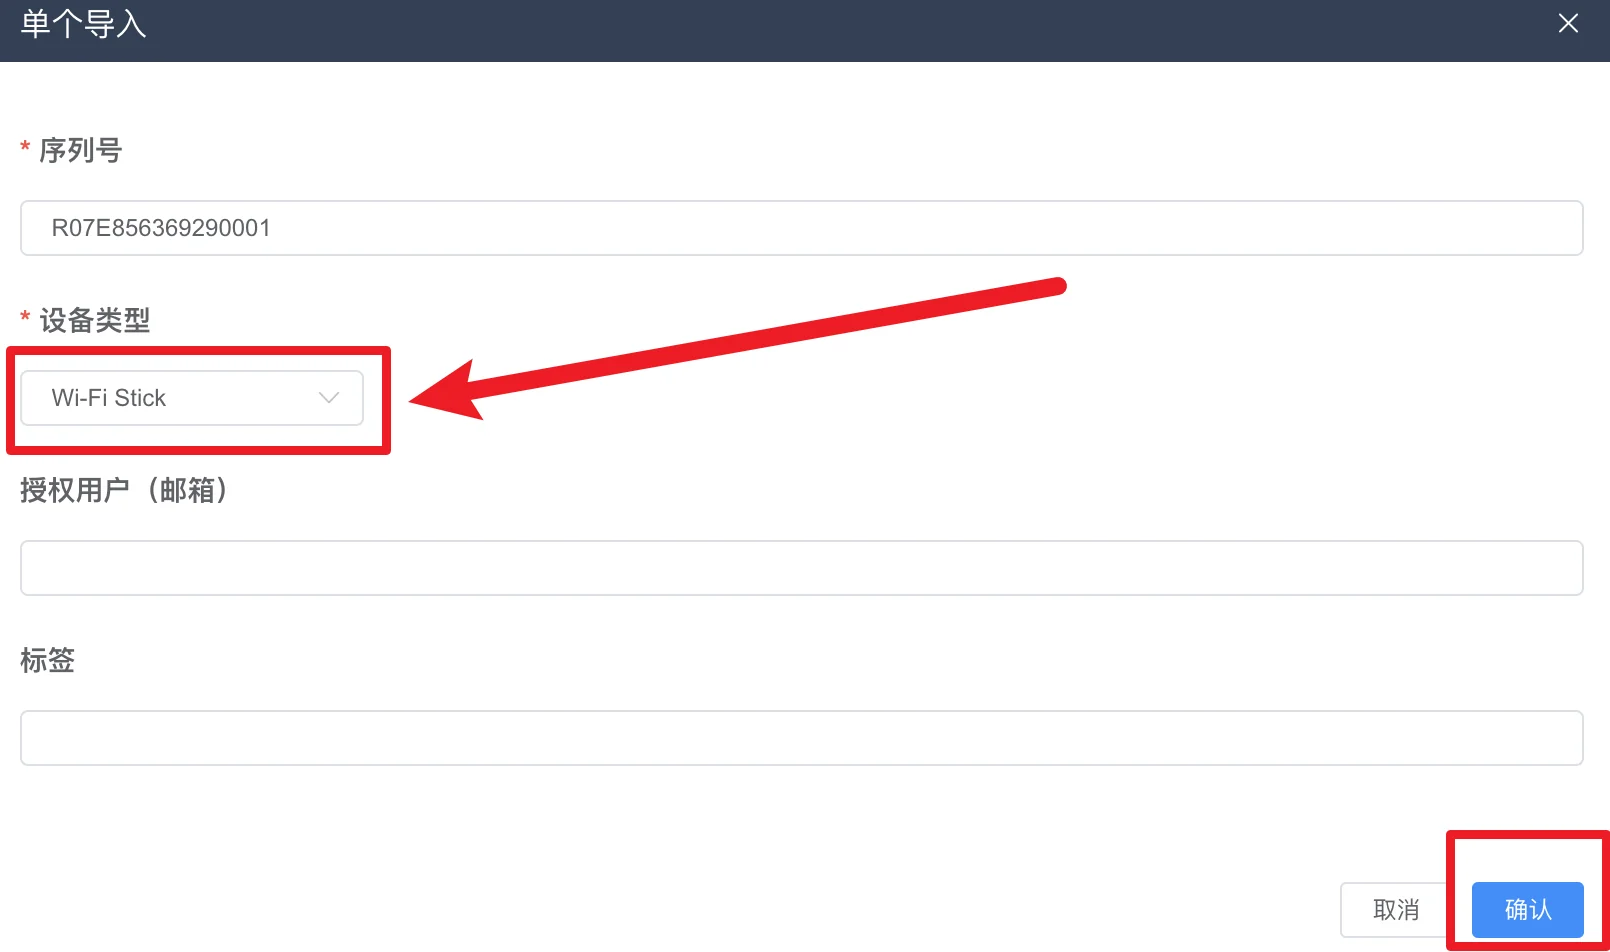
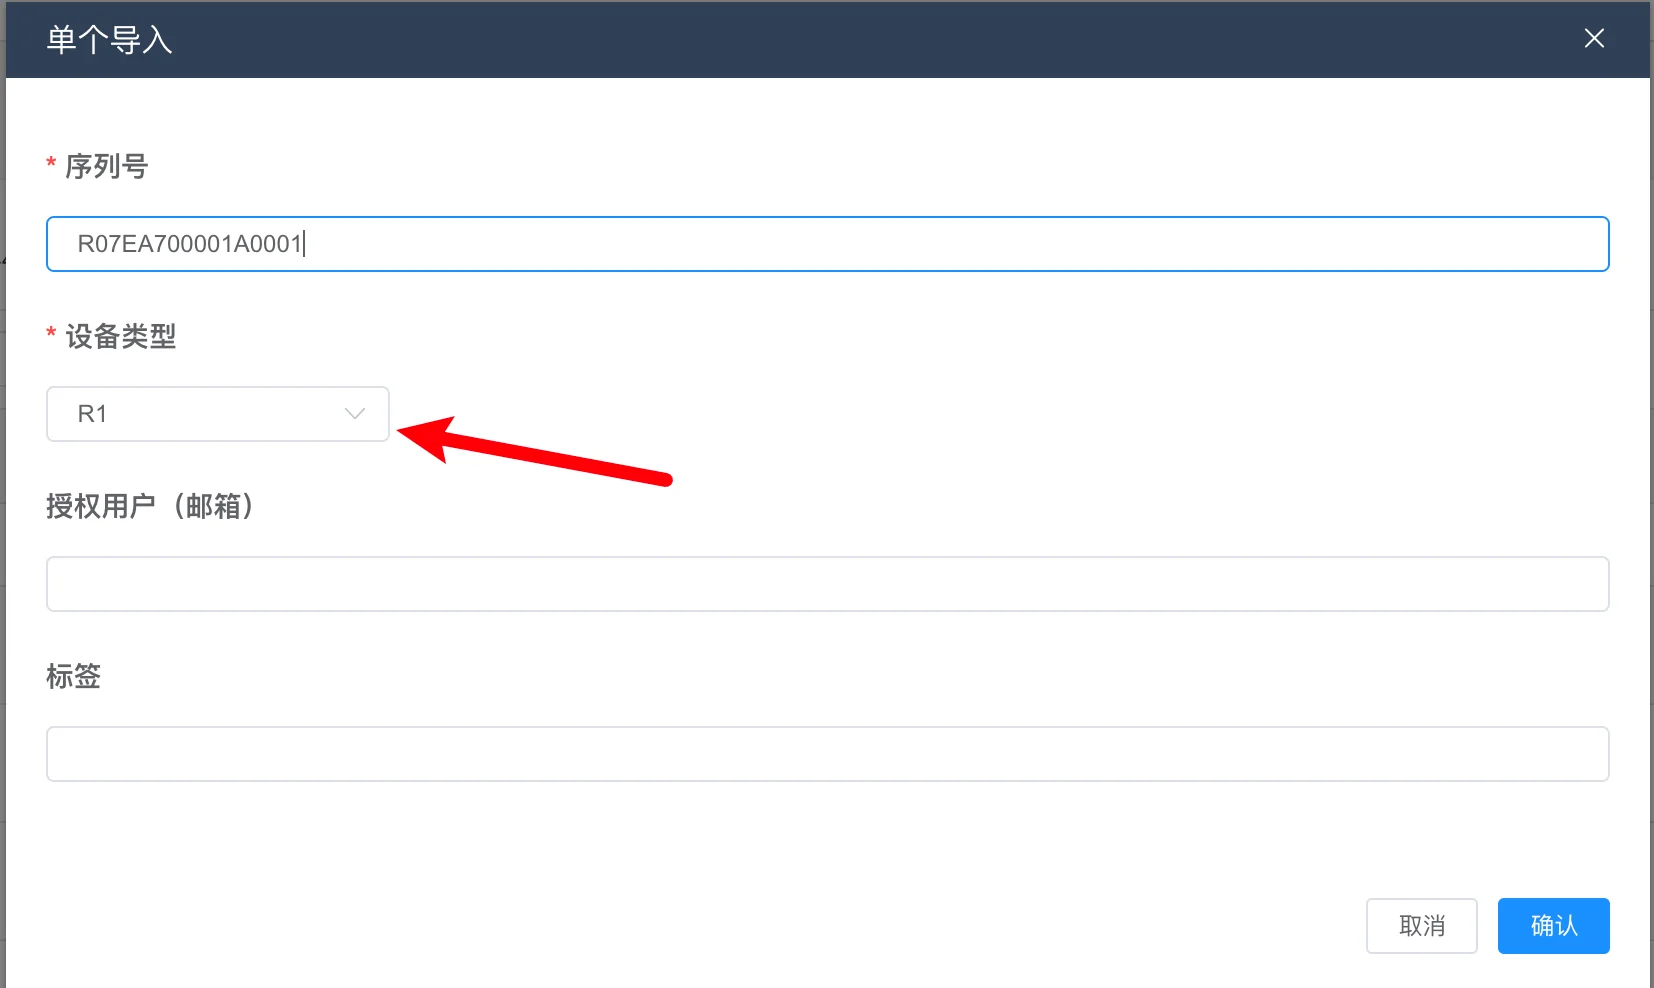
文档: 采集器导入更新设备类型说明(R1/X1,按序列号开头字母选择)并替换单个导入截图

Changed region(s): [[0.0, 0.0, 1.0, 1.0]]

diff --git a/docs/zh/docs/web/device/collector/index.html b/docs/zh/docs/web/device/collector/index.html
@@ -22,6 +22,6 @@ ZH</button><ul class="dropdown-menu text-end"><li><a class=dropdown-item href=/e
 </a><meta itemprop=position content='3'></li><li class="breadcrumb-item text-capitalize active" itemprop=itemListElement itemscope itemtype=https://schema.org/ListItem><span itemprop=name>采集器</span>
 <meta itemprop=position content='4'></li></ul></nav></div><div class="row flex-xl-nowrap"><div class="docs-toc col-xl-3 d-xl-block"><toc><div class="fw-bold text-uppercase mb-2"></div><nav id=TableOfContents><ul><li><a href=#1设备列表>1.设备列表</a></li><li><a href=#2采集器入库>2.采集器入库</a><ul><li><a href=#21单个导入>2.1单个导入</a></li><li><a href=#22批量导入>2.2批量导入</a></li></ul></li><li><a href=#3批量设置访问授权>3.批量设置访问授权</a></li><li><a href=#4批量设置标签>4.批量设置标签</a></li><li><a href=#5批量删除>5.批量删除</a></li><li><a href=#6单个访问授权设置标签删除>6.单个访问授权/设置标签/删除</a></li><li><a href=#7固件版本号搜索>7.固件版本号搜索</a></li><li><a href=#8采集器详情页>8.采集器详情页</a><ul><li><a href=#81报警>8.1报警</a></li><li><a href=#82解绑>8.2解绑</a></li><li><a href=#83其他功能>8.3其他功能</a></li><li><a href=#831变更>8.3.1变更</a></li><li><a href=#832新建工单>8.3.2新建工单</a></li><li><a href=#833别名编辑>8.3.3别名编辑</a></li><li><a href=#834固件升级>8.3.4固件升级</a></li><li><a href=#835操作日志>8.3.5操作日志</a></li></ul></li></ul></nav></toc></div><div class="docs-toc-mobile d-print-none d-xl-none"><button id=toc-dropdown-btn class="btn-secondary dropdown-toggle" type=button data-bs-toggle=dropdown data-bs-offset=0,0 aria-expanded=false>
 Table of Contents</button><nav id=toc-mobile><ul class=dropdown-menu><li><a href=#1设备列表>1.设备列表</a></li><li><a href=#2采集器入库>2.采集器入库</a><ul><li><a href=#21单个导入>2.1单个导入</a></li><li><a href=#22批量导入>2.2批量导入</a></li></ul></li><li><a href=#3批量设置访问授权>3.批量设置访问授权</a></li><li><a href=#4批量设置标签>4.批量设置标签</a></li><li><a href=#5批量删除>5.批量删除</a></li><li><a href=#6单个访问授权设置标签删除>6.单个访问授权/设置标签/删除</a></li><li><a href=#7固件版本号搜索>7.固件版本号搜索</a></li><li><a href=#8采集器详情页>8.采集器详情页</a><ul><li><a href=#81报警>8.1报警</a></li><li><a href=#82解绑>8.2解绑</a></li><li><a href=#83其他功能>8.3其他功能</a></li><li><a href=#831变更>8.3.1变更</a></li><li><a href=#832新建工单>8.3.2新建工单</a></li><li><a href=#833别名编辑>8.3.3别名编辑</a></li><li><a href=#834固件升级>8.3.4固件升级</a></li><li><a href=#835操作日志>8.3.5操作日志</a></li></ul></li></ul></nav></div><div class="docs-content col-12 col-xl-9 mt-0"><div class="mb-0 d-flex"><h1 class="content-title mb-0">采集器</h1></div><div id=content class=main-content><div data-prismjs-copy data-prismjs-copy-success data-prismjs-copy-error><h1 id=功能概述>功能概述 <a href=#%e5%8a%9f%e8%83%bd%e6%a6%82%e8%bf%b0 class=anchor aria-hidden=true><i class="material-icons align-middle">link</i></a></h1><p>采集器是平台数据接入的核心设备：现场的逆变器、电池、电表、优化器等<strong>子设备</strong>都挂在采集器下，由采集器统一采集并上报数据到平台。所以采集器需要先入库、再绑定到电站，它下面子设备的数据才能正常展示。</p><h2 id=1设备列表>1.设备列表 <a href=#1%e8%ae%be%e5%a4%87%e5%88%97%e8%a1%a8 class=anchor aria-hidden=true><i class="material-icons align-middle">link</i></a></h2><img src=/../../zh/photo/docs/device/collector/device-list.webp><p>设备列表可以查看在线、故障、离线和全部的设备信息。上方的状态标签会同时显示各状态的设备数量，点击标签可以只看该状态的设备：</p><ul><li><strong>在线</strong>：设备正常上报数据</li><li><strong>故障</strong>：设备存在未恢复的告警</li><li><strong>离线</strong>：设备长时间没有上报数据</li></ul><img src=/../../zh/photo/docs/device/collector/collector-uninstall.webp>
-<img src=/../../zh/photo/docs/device/collector/collector-install.webp><p>对于采集器设备来说，有两种额外的状态</p><ul><li><strong>已安装</strong>：采集器入库后进行了绑定电站</li><li><strong>未安装</strong>：采集器入库后未绑定电站</li></ul><p>列表中还会显示序列号、固件版本号、信号强度、所属电站、别名、时区、数据更新时间等，点击序列号可以进入采集器详情页。</p><p>信号强度可以用来判断现场的网络质量，参考如下数值：</p><ul><li>80% 以上：网络良好</li><li>50%~79%：网络正常</li><li>31%~49%：网络不佳，勉强使用</li><li>11%~30%：网络很差，注意优化</li><li>10% 以下：断网状态，需要重新配网</li></ul><h2 id=2采集器入库>2.采集器入库 <a href=#2%e9%87%87%e9%9b%86%e5%99%a8%e5%85%a5%e5%ba%93 class=anchor aria-hidden=true><i class="material-icons align-middle">link</i></a></h2><img src=/../../zh/photo/docs/device/collector/import-one.webp><p>采集器入库是把采集器录入平台，有两种方式</p><ul><li>单个导入：单个采集器导入，一次导入一个采集器</li><li>批量导入：通过将采集器SN写入模版文件，一次性导入多个采集器</li></ul><h3 id=21单个导入>2.1单个导入 <a href=#21%e5%8d%95%e4%b8%aa%e5%af%bc%e5%85%a5 class=anchor aria-hidden=true><i class="material-icons align-middle">link</i></a></h3><img src=/../../zh/photo/docs/device/collector/import-one1.webp width=600 height=450><p>一般采集器类型选择WI-FI Stick。</p><ul><li><strong>授权用户</strong>：填写后该用户拥有设备的查看管理权限；不填写则默认当前登录用户</li><li><strong>标签</strong>：给采集器添加备注信息，便于日常归类</li></ul><h3 id=22批量导入>2.2批量导入 <a href=#22%e6%89%b9%e9%87%8f%e5%af%bc%e5%85%a5 class=anchor aria-hidden=true><i class="material-icons align-middle">link</i></a></h3><img src=/../../zh/photo/docs/device/collector/import-more1.webp width=600 height=450><p>下载采集器导入模版</p><img src=/../../zh/photo/docs/device/collector/import-more.webp><p>可以填写多个采集器SN，Owner为授权用户，Keywords为标签</p><img src=/../../zh/photo/docs/device/collector/import-more2.webp width=700 height=550><p>类型选择WI-FI Stick，上传并读取校验，即可添加成功，若上传错误的SN或者已入库的SN则会列出报错信息</p><h2 id=3批量设置访问授权>3.批量设置访问授权 <a href=#3%e6%89%b9%e9%87%8f%e8%ae%be%e7%bd%ae%e8%ae%bf%e9%97%ae%e6%8e%88%e6%9d%83 class=anchor aria-hidden=true><i class="material-icons align-middle">link</i></a></h2><img src=/../../zh/photo/docs/device/collector/access.webp><p>可以勾选单个或多个设备</p><img src=/../../zh/photo/docs/device/collector/access1.webp width=700 height=550><p>输入平台账号的邮箱，如果存在则会弹出对应的平台账号</p><img src=/../../zh/photo/docs/device/collector/access2.webp width=700 height=550><p>选择平台账号，点击确定设置成功</p><p>访问授权是把设备的查看管理权限授予其他账号，被授权的账号在自己的设备列表里可以看到并管理这些设备；设备的授权用户和管理用户可以在列表操作列中对设备做访问授权、打标签和删除。</p><h2 id=4批量设置标签>4.批量设置标签 <a href=#4%e6%89%b9%e9%87%8f%e8%ae%be%e7%bd%ae%e6%a0%87%e7%ad%be class=anchor aria-hidden=true><i class="material-icons align-middle">link</i></a></h2><img src=/../../zh/photo/docs/device/collector/tag.webp>
+<img src=/../../zh/photo/docs/device/collector/collector-install.webp><p>对于采集器设备来说，有两种额外的状态</p><ul><li><strong>已安装</strong>：采集器入库后进行了绑定电站</li><li><strong>未安装</strong>：采集器入库后未绑定电站</li></ul><p>列表中还会显示序列号、固件版本号、信号强度、所属电站、别名、时区、数据更新时间等，点击序列号可以进入采集器详情页。</p><p>信号强度可以用来判断现场的网络质量，参考如下数值：</p><ul><li>80% 以上：网络良好</li><li>50%~79%：网络正常</li><li>31%~49%：网络不佳，勉强使用</li><li>11%~30%：网络很差，注意优化</li><li>10% 以下：断网状态，需要重新配网</li></ul><h2 id=2采集器入库>2.采集器入库 <a href=#2%e9%87%87%e9%9b%86%e5%99%a8%e5%85%a5%e5%ba%93 class=anchor aria-hidden=true><i class="material-icons align-middle">link</i></a></h2><img src=/../../zh/photo/docs/device/collector/import-one.webp><p>采集器入库是把采集器录入平台，有两种方式</p><ul><li>单个导入：单个采集器导入，一次导入一个采集器</li><li>批量导入：通过将采集器SN写入模版文件，一次性导入多个采集器</li></ul><h3 id=21单个导入>2.1单个导入 <a href=#21%e5%8d%95%e4%b8%aa%e5%af%bc%e5%85%a5 class=anchor aria-hidden=true><i class="material-icons align-middle">link</i></a></h3><img src=/../../zh/photo/docs/device/collector/import-one1.webp width=700 height=418><p><strong>设备类型</strong>根据采集器序列号的<strong>开头字母</strong>选择：</p><table><thead><tr><th>序列号开头字母</th><th>设备类型</th></tr></thead><tbody><tr><td>R</td><td><strong>R1</strong></td></tr><tr><td>X</td><td><strong>X1</strong></td></tr></tbody></table><p>目前采集器主要就是 <strong>R1</strong> 和 <strong>X1</strong> 两种类型，导入前请先确认设备上的序列号，选择对应类型。</p><ul><li><strong>授权用户</strong>：填写后该用户拥有设备的查看管理权限；不填写则默认当前登录用户</li><li><strong>标签</strong>：给采集器添加备注信息，便于日常归类</li></ul><h3 id=22批量导入>2.2批量导入 <a href=#22%e6%89%b9%e9%87%8f%e5%af%bc%e5%85%a5 class=anchor aria-hidden=true><i class="material-icons align-middle">link</i></a></h3><img src=/../../zh/photo/docs/device/collector/import-more1.webp width=600 height=450><p>下载采集器导入模版</p><img src=/../../zh/photo/docs/device/collector/import-more.webp><p>可以填写多个采集器SN，Owner为授权用户，Keywords为标签</p><img src=/../../zh/photo/docs/device/collector/import-more2.webp width=700 height=550><p>类型同样按序列号开头字母选择（<strong>R 选 R1、X 选 X1</strong>），上传并读取校验，即可添加成功，若上传错误的SN或者已入库的SN则会列出报错信息</p><h2 id=3批量设置访问授权>3.批量设置访问授权 <a href=#3%e6%89%b9%e9%87%8f%e8%ae%be%e7%bd%ae%e8%ae%bf%e9%97%ae%e6%8e%88%e6%9d%83 class=anchor aria-hidden=true><i class="material-icons align-middle">link</i></a></h2><img src=/../../zh/photo/docs/device/collector/access.webp><p>可以勾选单个或多个设备</p><img src=/../../zh/photo/docs/device/collector/access1.webp width=700 height=550><p>输入平台账号的邮箱，如果存在则会弹出对应的平台账号</p><img src=/../../zh/photo/docs/device/collector/access2.webp width=700 height=550><p>选择平台账号，点击确定设置成功</p><p>访问授权是把设备的查看管理权限授予其他账号，被授权的账号在自己的设备列表里可以看到并管理这些设备；设备的授权用户和管理用户可以在列表操作列中对设备做访问授权、打标签和删除。</p><h2 id=4批量设置标签>4.批量设置标签 <a href=#4%e6%89%b9%e9%87%8f%e8%ae%be%e7%bd%ae%e6%a0%87%e7%ad%be class=anchor aria-hidden=true><i class="material-icons align-middle">link</i></a></h2><img src=/../../zh/photo/docs/device/collector/tag.webp>
 <img src=/../../zh/photo/docs/device/collector/tag2.webp><p>给多个采集器统一打标签，标签用于给设备添加备注信息（例如安装区域、用途），便于日常归类和查找。</p><h2 id=5批量删除>5.批量删除 <a href=#5%e6%89%b9%e9%87%8f%e5%88%a0%e9%99%a4 class=anchor aria-hidden=true><i class="material-icons align-middle">link</i></a></h2><img src=/../../zh/photo/docs/device/collector/tag.webp><p>勾选多个采集器后可以批量删除。<strong>已安装（已绑定电站）的采集器不能直接删除</strong>，需要先在详情页解绑；删除后设备及其数据将不再展示，请谨慎操作。</p><h2 id=6单个访问授权设置标签删除>6.单个访问授权/设置标签/删除 <a href=#6%e5%8d%95%e4%b8%aa%e8%ae%bf%e9%97%ae%e6%8e%88%e6%9d%83%e8%ae%be%e7%bd%ae%e6%a0%87%e7%ad%be%e5%88%a0%e9%99%a4 class=anchor aria-hidden=true><i class="material-icons align-middle">link</i></a></h2><img src=/../../zh/photo/docs/device/collector/single.webp><p>列表右侧操作列有三个图标按钮，依次是「访问授权」「标签」「删除」，只有设备的授权用户和管理用户可以看到并操作。</p><h2 id=7固件版本号搜索>7.固件版本号搜索 <a href=#7%e5%9b%ba%e4%bb%b6%e7%89%88%e6%9c%ac%e5%8f%b7%e6%90%9c%e7%b4%a2 class=anchor aria-hidden=true><i class="material-icons align-middle">link</i></a></h2><img src=/../../zh/photo/docs/device/collector/search.webp><p>按固件版本号筛选设备，便于确认哪些设备需要做固件升级。</p><h2 id=8采集器详情页>8.采集器详情页 <a href=#8%e9%87%87%e9%9b%86%e5%99%a8%e8%af%a6%e6%83%85%e9%a1%b5 class=anchor aria-hidden=true><i class="material-icons align-middle">link</i></a></h2><img src=/../../zh/photo/docs/device/collector/detail-enter.webp><p>从设备列表中的设备可以进入设备详情页</p><img src=/../../zh/photo/docs/device/collector/detail.webp><p>采集器详情页包括采集器的基本信息和其子设备，支持的子设备有逆变器、BMS、优化器、电表等。</p><p>页面顶部显示设备名称和最近一次数据更新时间（含设备所在时区），右侧的「报警」「解绑」是常用操作，其余操作在「…」菜单中。基本信息包括序列号、别名、状态、所属电站、固件版本、型号、通讯类型、最大连接数量、状态码、数据上传间隔等。</p><h3 id=81报警>8.1报警 <a href=#81%e6%8a%a5%e8%ad%a6 class=anchor aria-hidden=true><i class="material-icons align-middle">link</i></a></h3><img src=/../../zh/photo/docs/device/collector/alert.webp><p>报警将打开该设备的设备事件页面，可以看到该设备产生的所有告警和故障，支持按事件级别、事件时间、事件代码、事件内容等条件筛选；每条事件可以查看详情，也可以直接创建工单跟进。</p><img src=/../../zh/photo/docs/device/collector/alert1.webp><h3 id=82解绑>8.2解绑 <a href=#82%e8%a7%a3%e7%bb%91 class=anchor aria-hidden=true><i class="material-icons align-middle">link</i></a></h3><img src=/../../zh/photo/docs/device/collector/unbind.webp><p>采集器的解绑将解绑采集器绑定的电站，<strong>子设备的解绑将会从采集器下删除该子设备，清空子设备的数据</strong>。</p><p>未绑定电站的采集器没有可解绑的内容，解绑按钮为不可点击状态。</p><h3 id=83其他功能>8.3其他功能 <a href=#83%e5%85%b6%e4%bb%96%e5%8a%9f%e8%83%bd class=anchor aria-hidden=true><i class="material-icons align-middle">link</i></a></h3><img src=/../../zh/photo/docs/device/collector/other-function.webp><p>点击右上角的「…」展开其余操作，包括变更、新建工单、别名编辑、固件升级、参数设置、操作日志。</p><h3 id=831变更>8.3.1变更 <a href=#831%e5%8f%98%e6%9b%b4 class=anchor aria-hidden=true><i class="material-icons align-middle">link</i></a></h3><img src=/../../zh/photo/docs/device/collector/update.webp width=600 height=450><p>变更采集器的型号和序列号。入库时型号或者序列号填写有误，可以通过变更修正。</p><h3 id=832新建工单>8.3.2新建工单 <a href=#832%e6%96%b0%e5%bb%ba%e5%b7%a5%e5%8d%95 class=anchor aria-hidden=true><i class="material-icons align-middle">link</i></a></h3><img src=/../../zh/photo/docs/device/collector/ticket.webp width=600 height=450><p>对该采集器创建一个工单。工单会带上设备信息，创建的工单可以在「运维中心 → 工单系统」中查看和处理。</p><h3 id=833别名编辑>8.3.3别名编辑 <a href=#833%e5%88%ab%e5%90%8d%e7%bc%96%e8%be%91 class=anchor aria-hidden=true><i class="material-icons align-middle">link</i></a></h3><img src=/../../zh/photo/docs/device/collector/name.webp width=600 height=450><p>可以对采集器命名。别名会显示在设备列表、详情页等位置，建议填写便于识别的名称（例如安装位置），设备的序列号不受影响。</p><h3 id=834固件升级>8.3.4固件升级 <a href=#834%e5%9b%ba%e4%bb%b6%e5%8d%87%e7%ba%a7 class=anchor aria-hidden=true><i class="material-icons align-middle">link</i></a></h3><img src=/../../zh/photo/docs/device/collector/ota.webp><p>对采集器进行OTA升级，上传固件后选择固件，点击立即升级。升级过程与超时时间的说明参考「工具箱 → 远程交互」中的固件升级。</p><h3 id=835操作日志>8.3.5操作日志 <a href=#835%e6%93%8d%e4%bd%9c%e6%97%a5%e5%bf%97 class=anchor aria-hidden=true><i class="material-icons align-middle">link</i></a></h3><img src=/../../zh/photo/docs/device/collector/ops.webp><p>操作日志保存了最近对该设备的远程交互记录，包括OTA、参数设置、指令透传</p></div></div><div><hr class=doc-hr><div id=doc-nav class=d-print-none><div class="row flex-xl-nowrap flex-row-reverse"><div class="col-sm-6 pt-2 doc-prev"><a class=ms-auto href=/zh/docs/web/toolkits/point-query/><div class="card h-100 my-1 text-end"><div class="card-body py-2"><p class="card-title fs-5 fw-semibold lh-base mb-0">测点查询 <i class="material-icons align-middle">navigate_next</i></p></div></div></a></div></div></div></div></div></div></div></div><footer class="shadow py-3 d-print-none"><div class=container-fluid><div class="row align-items-center"><div class=col><div class="text-sm-start text-center mx-md-2"><p class=mb-0 style=text-align:center>Copyright © 2025 RaymonIoT. All Rights Reserved.</p></div></div></div></div></footer></main></div></div><button onclick=topFunction() id=back-to-top aria-label="Back to Top Button" class="back-to-top fs-5"><svg width="24" height="24"><path d="M12 10.224l-6.3 6.3-1.38-1.372L12 7.472l7.68 7.68-1.38 1.376z" style="fill:#fff"/></svg></button>
 <script>(()=>{var e=document.getElementById("mode");e!==null&&(window.matchMedia("(prefers-color-scheme: dark)").addEventListener("change",e=>{e.matches?(localStorage.setItem("theme","dark"),document.documentElement.setAttribute("data-dark-mode","")):(localStorage.setItem("theme","light"),document.documentElement.removeAttribute("data-dark-mode"))}),e.addEventListener("click",()=>{document.documentElement.toggleAttribute("data-dark-mode"),localStorage.setItem("theme",document.documentElement.hasAttribute("data-dark-mode")?"dark":"light")}),localStorage.getItem("theme")==="dark"?document.documentElement.setAttribute("data-dark-mode",""):document.documentElement.removeAttribute("data-dark-mode"))})()</script><script src=/docs/js/bootstrap.eac7ee3f6fa791c684e7a51fc2fd50b6f724271b9e39562e4fe8c3942412df3acbfc4045f043d03399dac70091207507.js integrity=sha384-6sfuP2+nkcaE56Ufwv1QtvckJxueOVYuT+jDlCQS3zrL/EBF8EPQM5naxwCRIHUH defer></script><script type=text/javascript src=https://raymoniot.github.io/docs/js/bundle.min.11632c85b6795b41b9dac1dc4ca0f5a827b78f03dbd9b6e26ee2b7f044c9aed29c744f7a3db0100da8c11956aa824dbb.js integrity=sha384-EWMshbZ5W0G52sHcTKD1qCe3jwPb2bbibuK38ETJrtKcdE96PbAQDajBGVaqgk27 crossorigin=anonymous defer></script><script>window.addEventListener("DOMContentLoaded",function(){docsearch({container:"#docsearch",appId:"UTU98CAGT1",apiKey:"4d3e8e1102314e0a038a07622c8165ac",indexName:"raymoniotio",placeholder:"Search Documentation",translations:{button:{buttonText:"",buttonAriaLabel:"Search"}}})})</script></body></html>

diff --git a/content/zh/docs/web/device/collector.md b/content/zh/docs/web/device/collector.md
@@ -48,9 +48,16 @@ weight: 1
 
 ### 2.1单个导入
 
-<img src="/../../zh/photo/docs/device/collector/import-one1.webp" width="600" height="450">
+<img src="/../../zh/photo/docs/device/collector/import-one1.webp" width="700" height="418">
 
-一般采集器类型选择WI-FI Stick。
+**设备类型**根据采集器序列号的**开头字母**选择：
+
+| 序列号开头字母 | 设备类型 |
+|---|---|
+| R | **R1** |
+| X | **X1** |
+
+目前采集器主要就是 **R1** 和 **X1** 两种类型，导入前请先确认设备上的序列号，选择对应类型。
 
 - **授权用户**：填写后该用户拥有设备的查看管理权限；不填写则默认当前登录用户
 - **标签**：给采集器添加备注信息，便于日常归类
@@ -67,7 +74,7 @@ weight: 1
 
 <img src="/../../zh/photo/docs/device/collector/import-more2.webp" width="700" height="550">
 
-类型选择WI-FI Stick，上传并读取校验，即可添加成功，若上传错误的SN或者已入库的SN则会列出报错信息
+类型同样按序列号开头字母选择（**R 选 R1、X 选 X1**），上传并读取校验，即可添加成功，若上传错误的SN或者已入库的SN则会列出报错信息
 
 ## 3.批量设置访问授权
 
